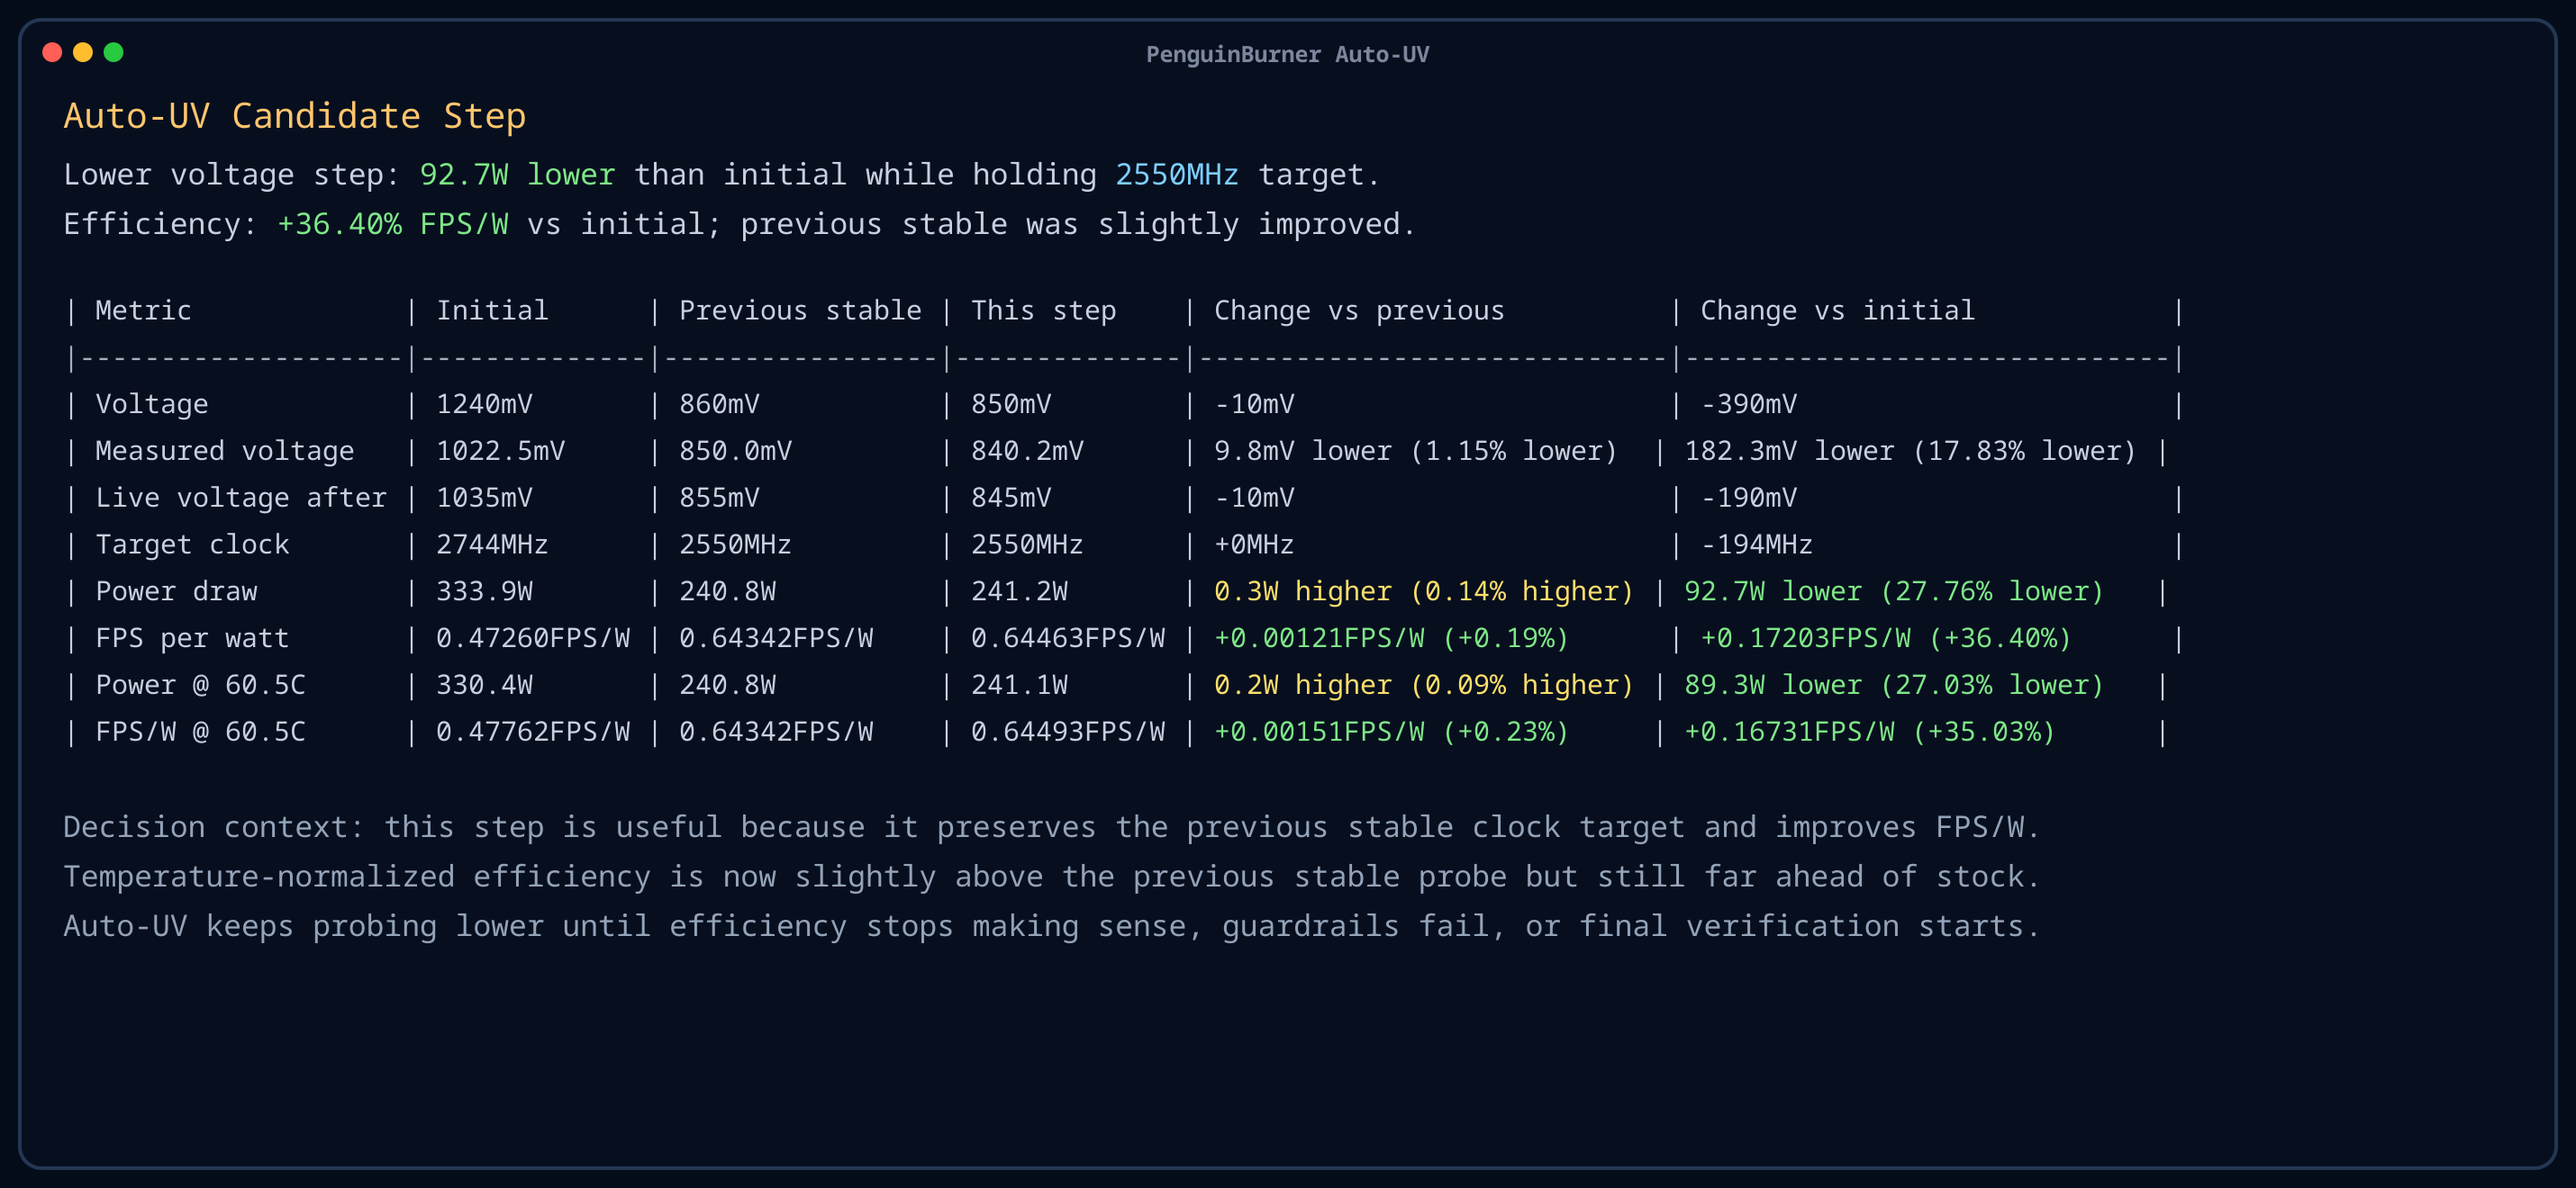
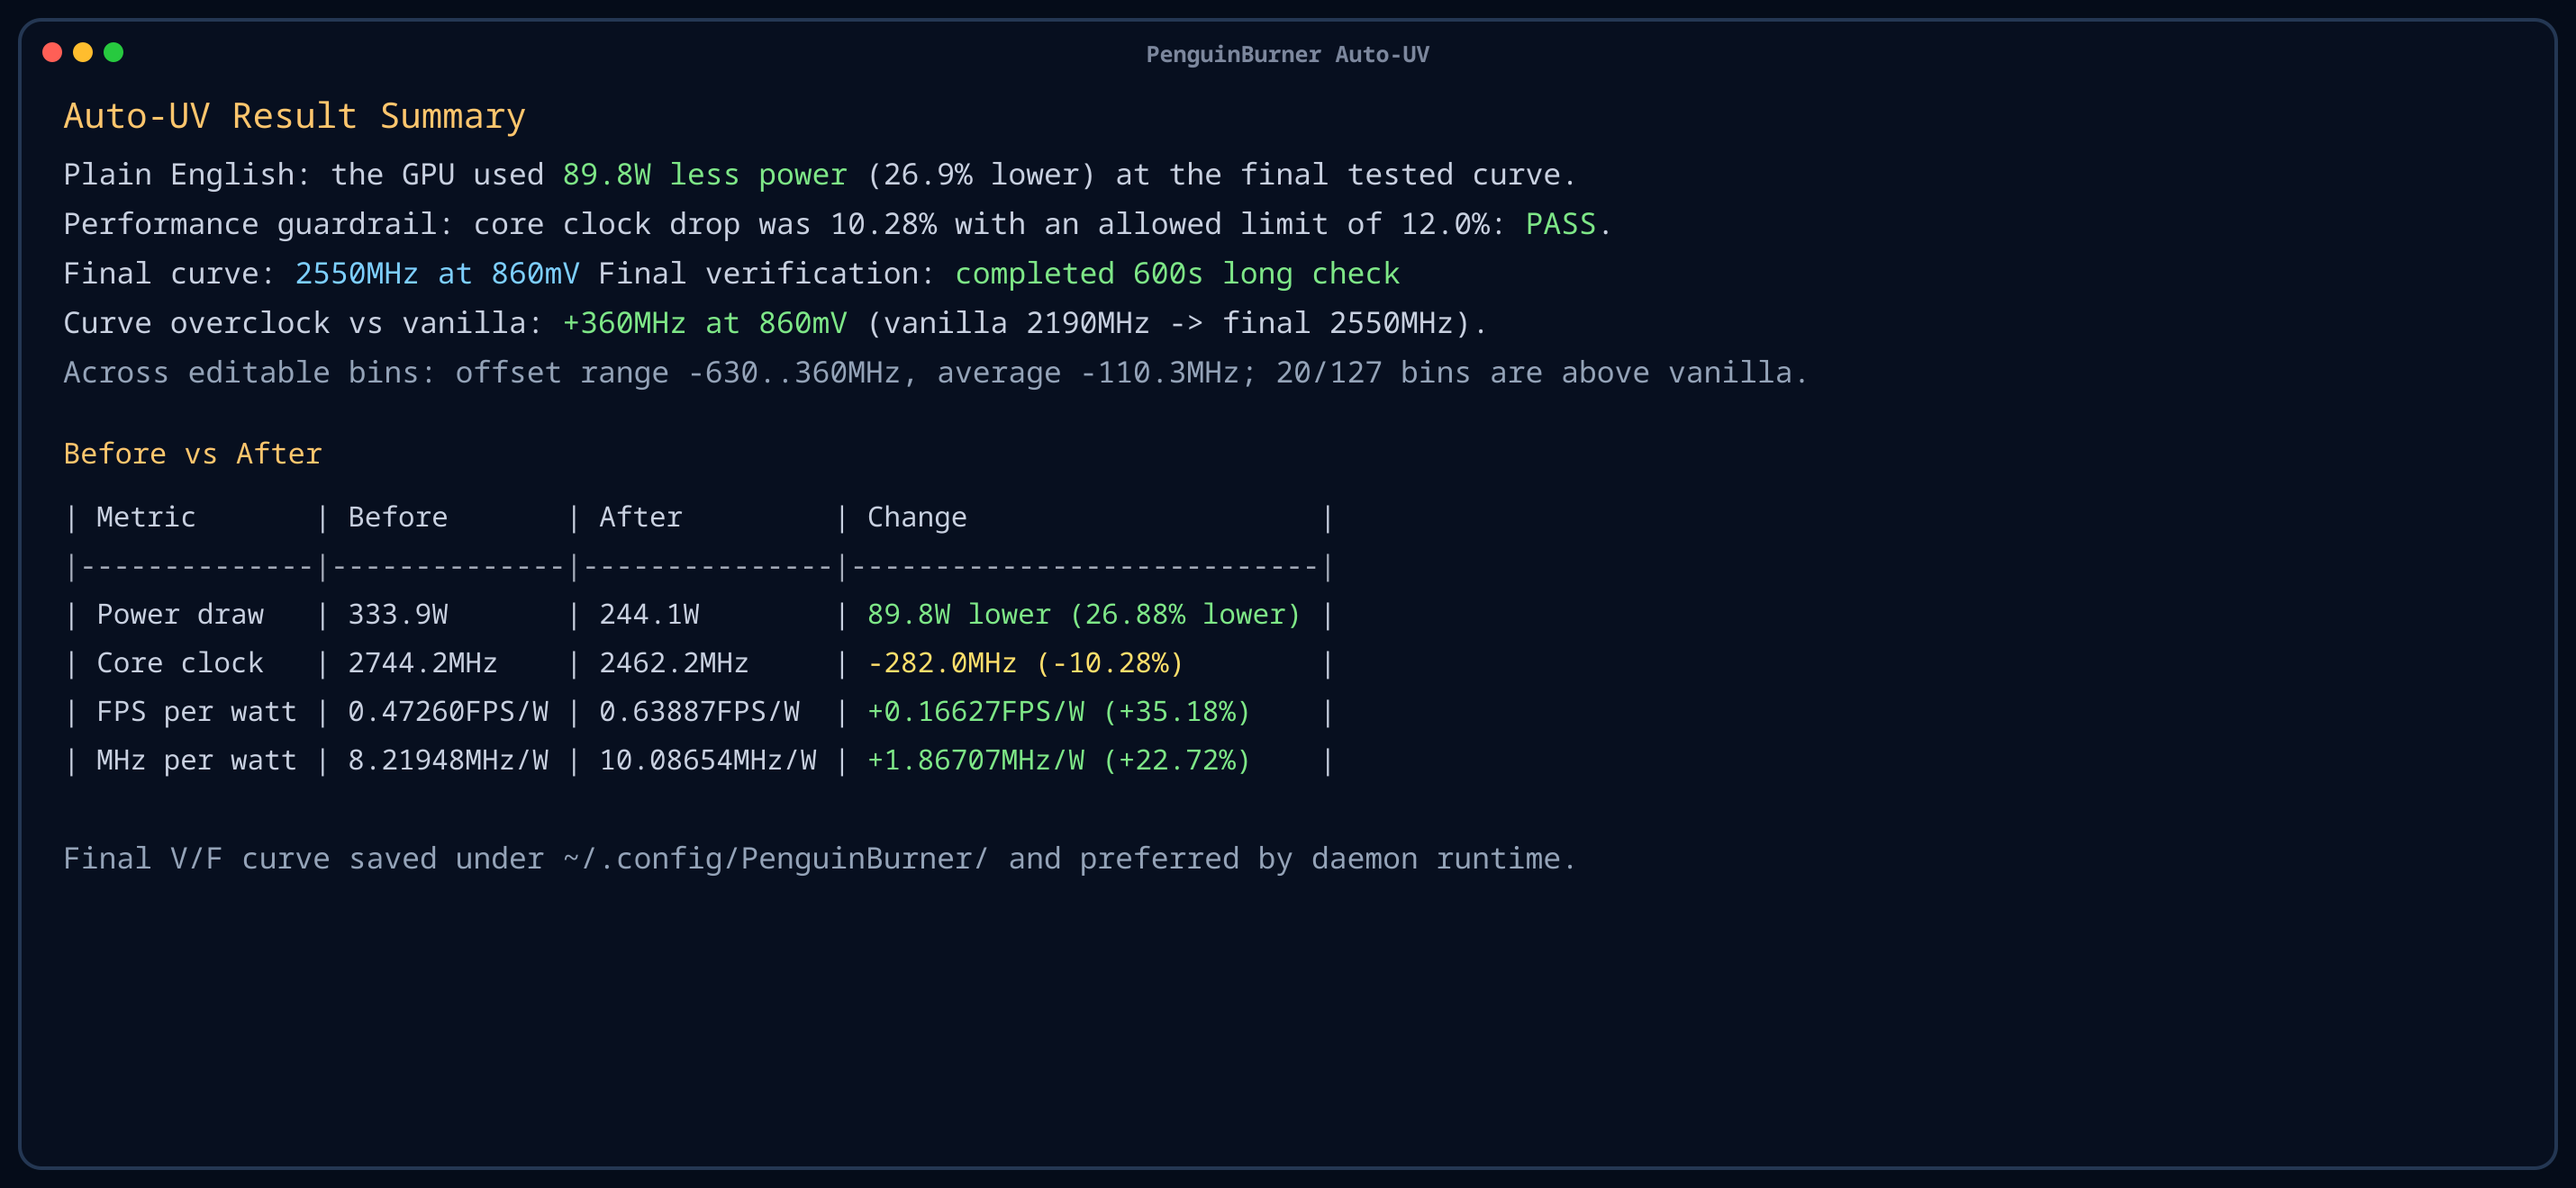
Refresh Auto-UV README screenshot
Replace the candidate-step screenshot content with the cleaner final result summary showing 89.8W lower power, completed 600s verification, and the 860mV curve overclock versus vanilla.

diff --git a/README.md b/README.md
@@ -24,9 +24,9 @@ To clear old Auto-UV results and start fresh:
 sudo ./penguin_burner.sh --fresh-auto-uv-scan
 ```
 
-![Auto-UV candidate step](auto_uv_candidate_step_terminal.png)
+![Auto-UV result summary](auto_uv_candidate_step_terminal.png)
 
-Example Auto-UV candidate step: current probe compared with the initial baseline and previous stable curve.
+Example Auto-UV result summary: before/after power draw, core clock, and efficiency shown after the final verification.
 
 What Auto-UV does:
 
